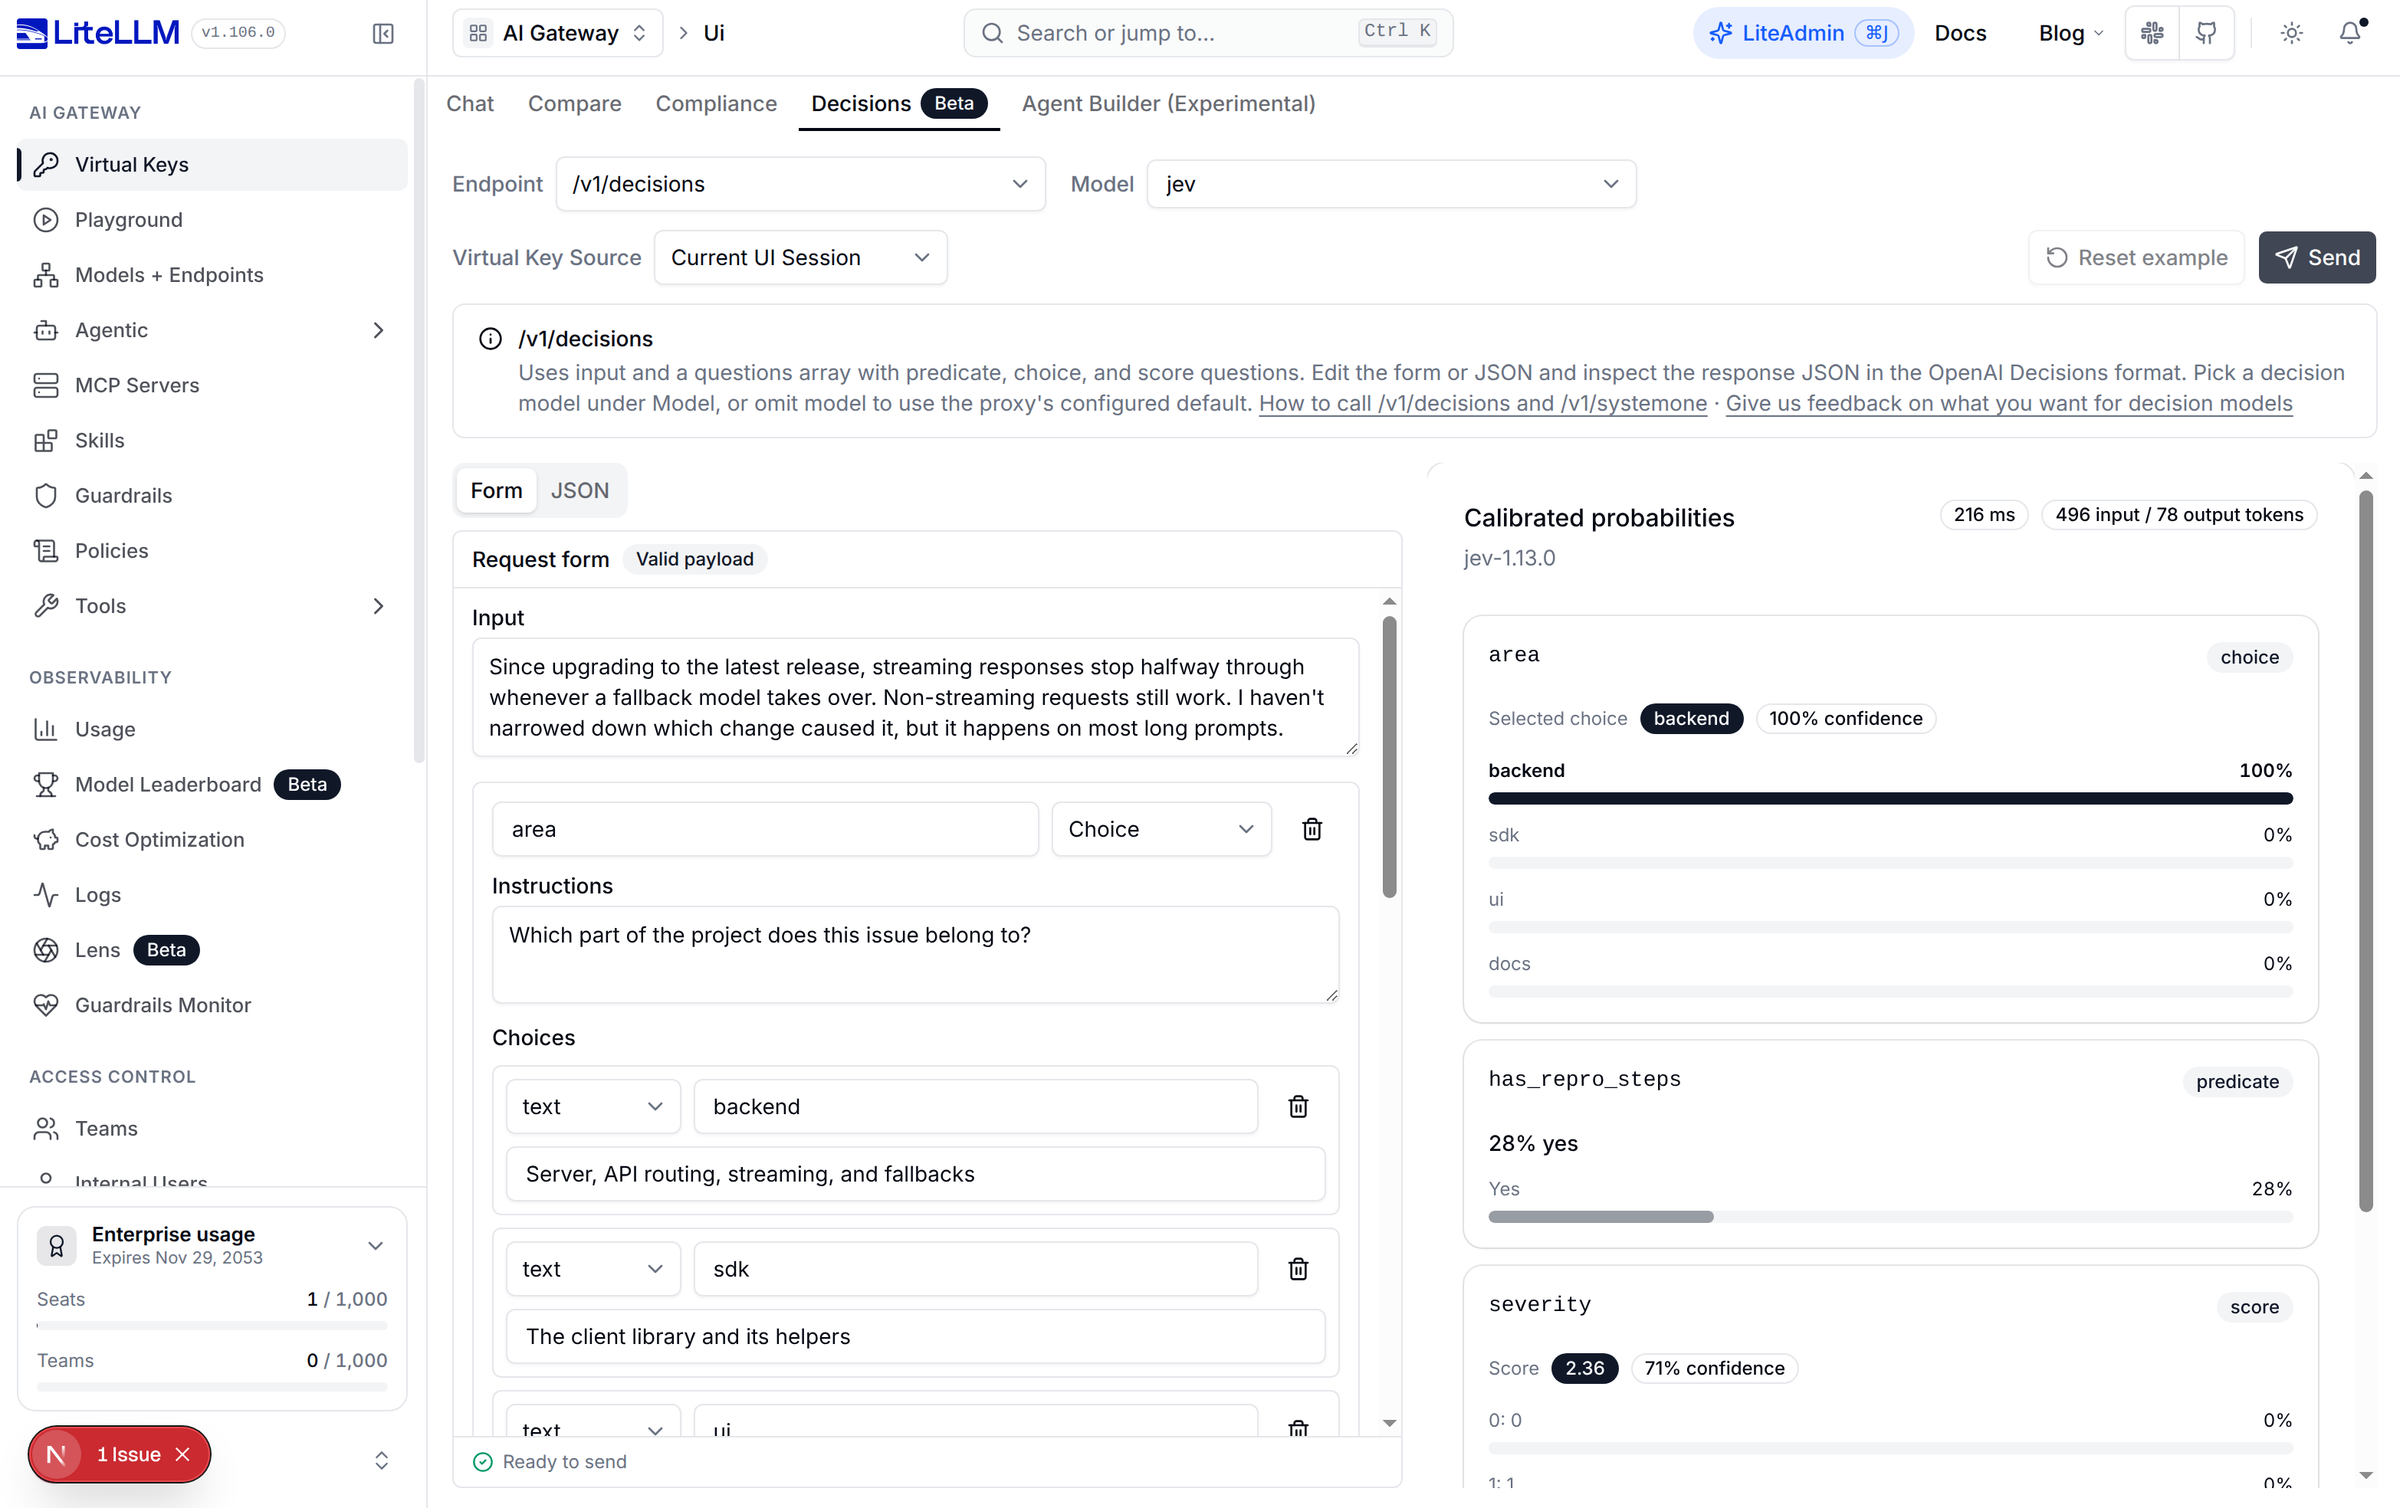
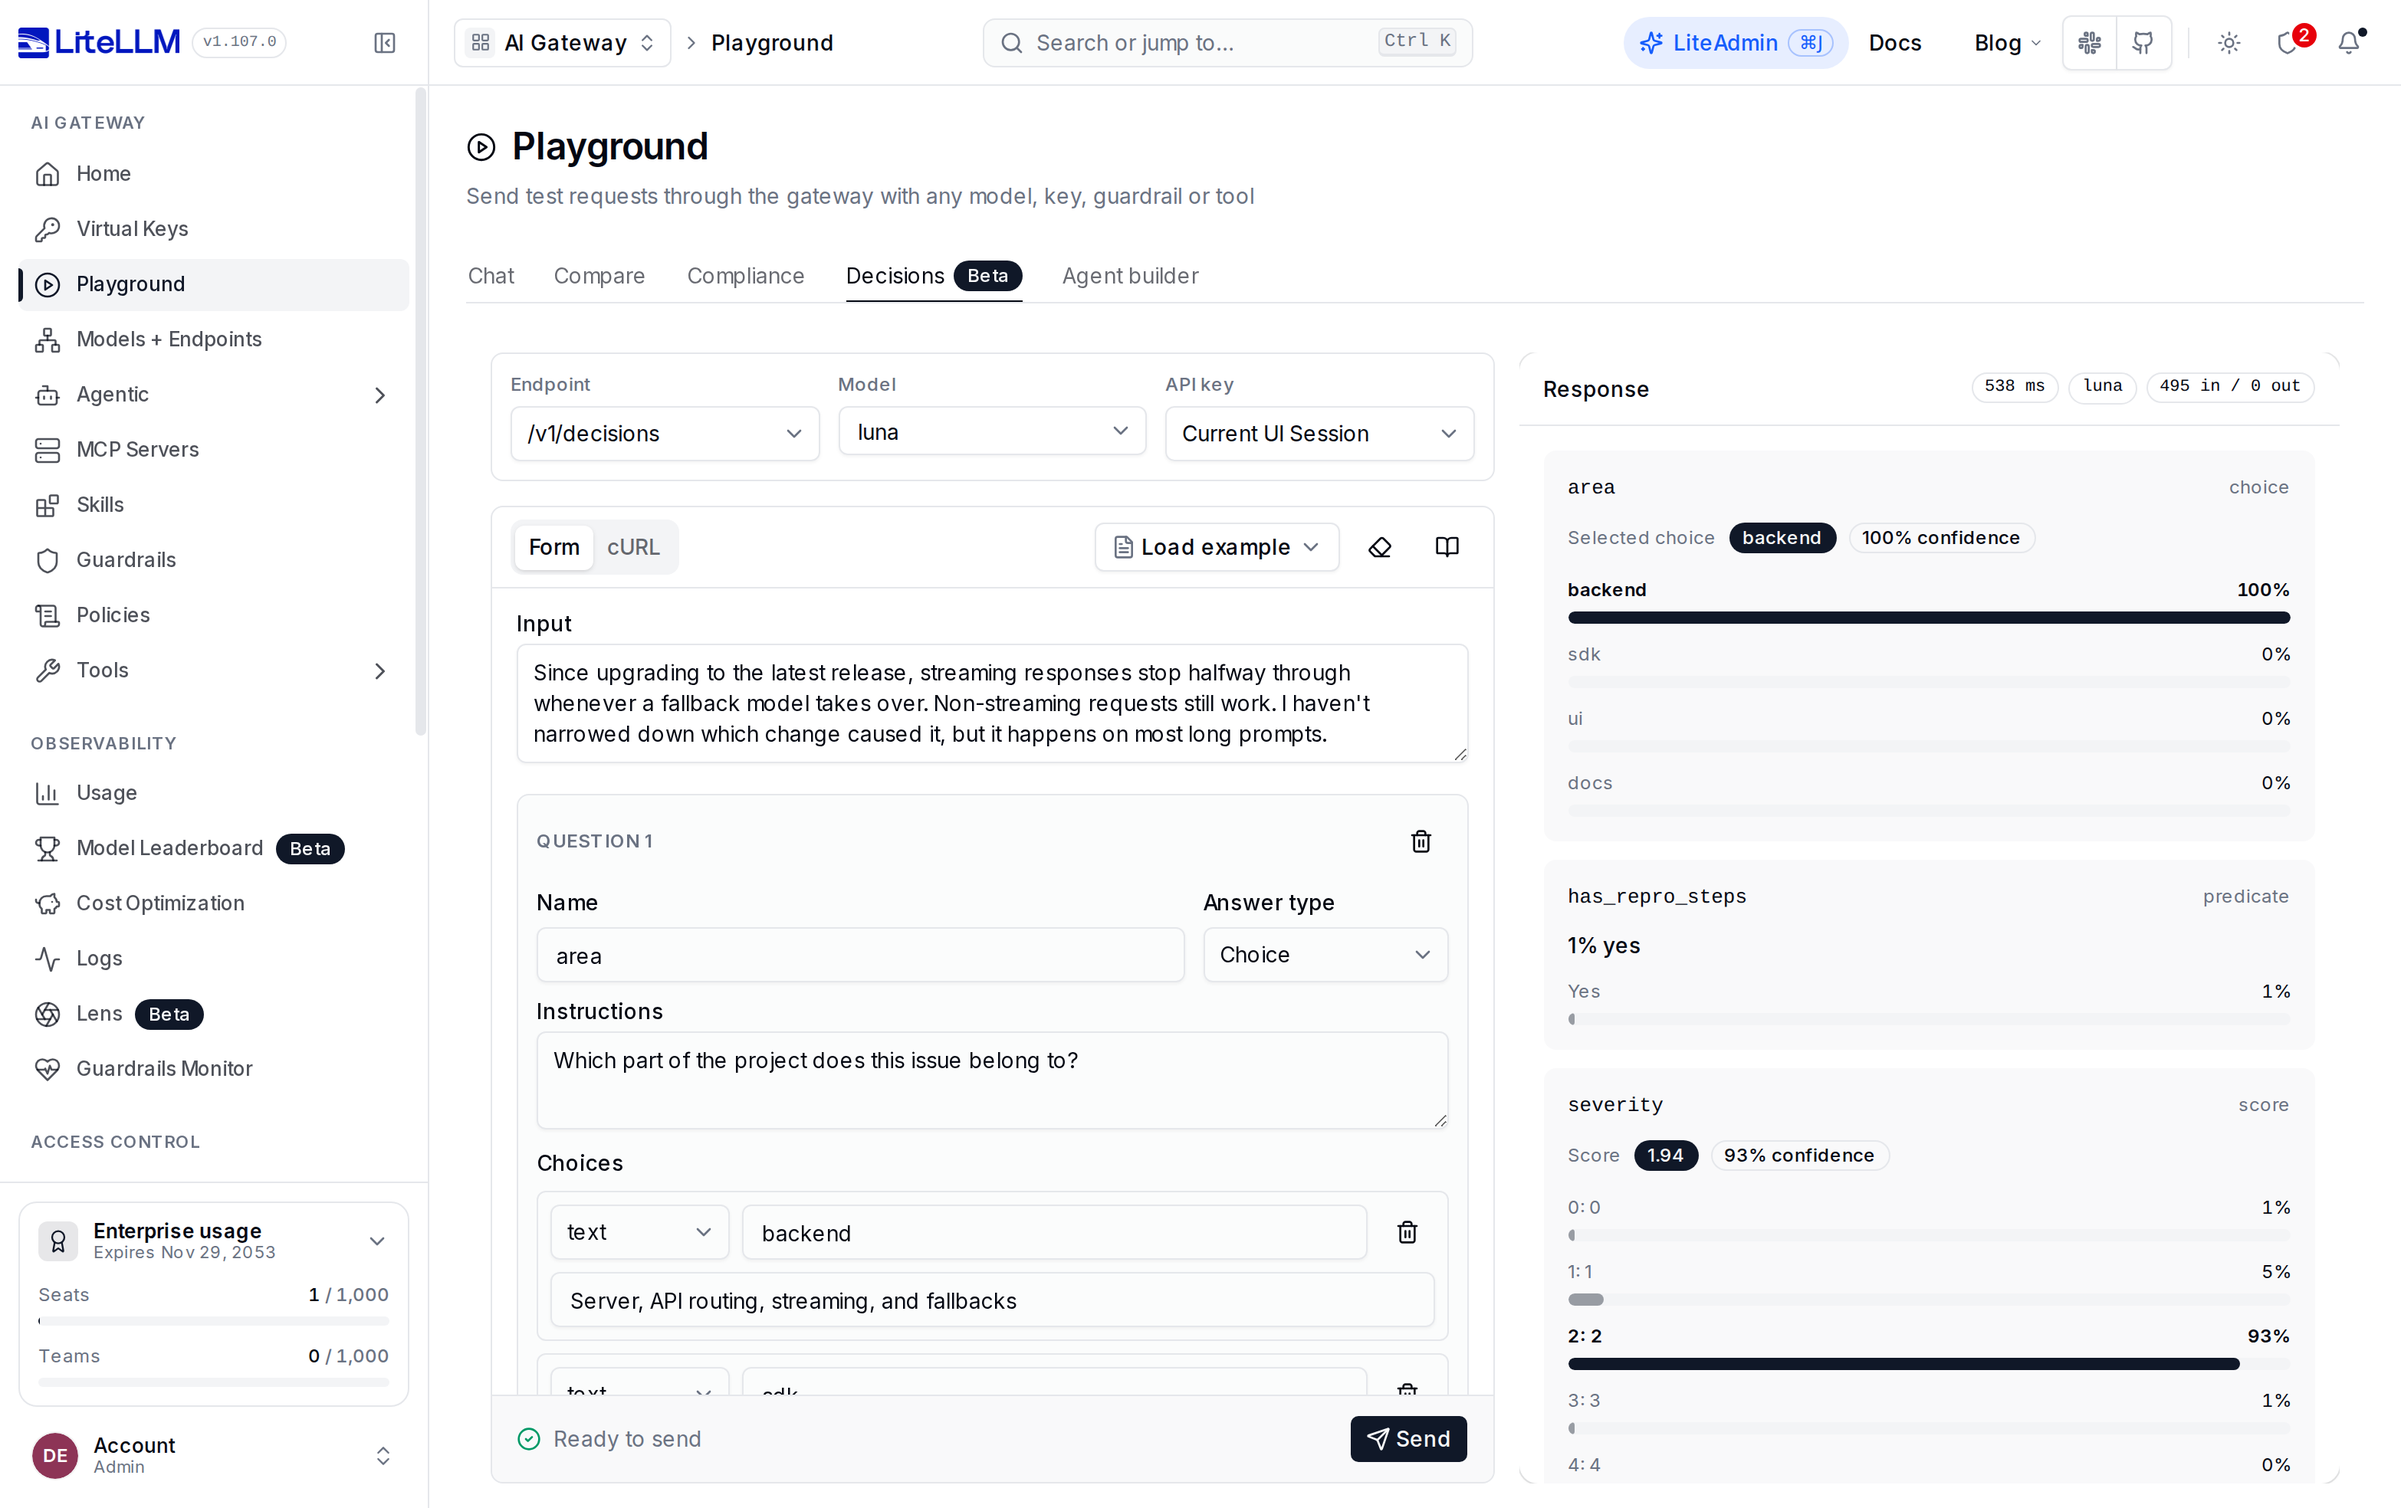
docs(decisions): describe the current Decisions playground and refresh its screenshots

diff --git a/docs/pass_through/typesafe.md b/docs/pass_through/typesafe.md
@@ -85,21 +85,21 @@ Any path under `/typesafe/` is forwarded, so `GET /typesafe/v1/models` lists the
 
 ## Try it in the Admin UI
 
-The Playground **Decisions** tab (Beta) sends Jev requests without curl. It calls the proxy's `/v1/systemone` route rather than this pass-through, so add a `typesafe/` model to your `model_list` first, for example `jev` from the [proxy setup](../decisions.md#proxy-setup) on the Decisions page, and set `TYPESAFE_API_KEY`; without the key the upstream error shows inline. Open `LITELLM_PROXY_BASE_URL/ui/?page=llm-playground&tab=system-one`, or go to **Playground** and pick **Decisions**. In releases before the rename the tab is labelled **System One**.
+The Playground **Decisions** tab (Beta) sends Jev requests without curl. It calls the proxy's `/v1/systemone` route rather than this pass-through, so add a `typesafe/` model to your `model_list` first, for example `jev` from the [proxy setup](../decisions.md#proxy-setup) on the Decisions page, and set `TYPESAFE_API_KEY`. Open `LITELLM_PROXY_BASE_URL/ui/?page=llm-playground&tab=system-one`, or go to **Playground** and pick **Decisions**.
 
-Pick `/v1/systemone` under **Endpoint** and your Jev model under **Model**. The left side holds a request preloaded with an issue triage example that asks one question of each type: `area` (choice), `has_repro_steps` (noul) and `severity` (score), and **Reset example** restores it.
+Pick `/v1/systemone` under **Endpoint** and your Jev model under **Model**. **Load example** fills in a request, such as **Triage a bug report**, which asks one question of each type: `area` (choice), `has_repro_steps` (yes / no) and `severity` (score). The eraser button clears the form.
 
 <Image img={require('../../img/decisions_playground_systemone.png')} alt="Decisions playground with /v1/systemone and the jev model picked, showing the form and the answers" />
 
-The editor opens on a **Form** tab, so you can build a request without writing JSON. Type the text the model should read into **Input**, then edit each question card: its name, its type (**Choice**, **Yes / no** or **Score**), its **Instructions**, and its criteria. A choice takes options with descriptions, a yes / no question takes **Yes means** and **No means**, and a score takes levels numbered from 0. **Add question**, **Add option** and **Add level** add rows, and the trash buttons remove them.
+The editor opens on the **Form** tab, so you can build a request without writing JSON. Type the text the model should read into **Input**, then fill in each question card: its **Name**, its **Answer type** (**Choice**, **Yes / no** or **Score**), its **Instructions** and its criteria. A choice takes **Options** with descriptions, a yes / no question takes **Yes means** and **No means**, and a score takes **Levels, lowest first**, numbered from 0. **Add question**, **Add option** and **Add level** add rows, and the trash buttons remove them.
 
-The **JSON** tab edits the same request as raw JSON, so a change in either tab shows up in the other, and fields the form has no input for, such as `metadata`, are kept. A request the form cannot show, such as JSON with a syntax error, gets an **Edit in JSON** button instead. **Format JSON** on that tab reindents the request. Releases without the **Form** tab show only the JSON editor.
+The **cURL** tab shows the request as a read-only curl command for the proxy's `/v1/systemone`, and it follows your edits. Once the form has no issues, **Copy cURL** copies it, and you replace `$LITELLM_API_KEY` with a virtual key. To send a field the form has no input for, such as `metadata`, copy the curl and add the field to its `-d` body.
 
-The request is checked as you type. `state` and a non-empty `questions` object are required and every question needs `instructions`; errors are listed by JSON path and disable **Send**. Fields outside the form are forwarded unchanged.
+The form checks the request as you type. Problems are listed above **Send**, such as `Add the text the model should decide about.` for an empty **Input** and `Give every question a name.` for an unnamed question, and **Send** stays disabled until they are fixed. TypeSafe checks the rest when you send, so a yes / no question with no instructions and no **Yes means** or **No means** comes back as a 400.
 
-**Virtual Key Source** picks the key: **Current UI Session** uses your dashboard login, and **Virtual Key** lets you paste one so the call is attributed and budgeted against that key. **Send** posts to `/v1/systemone` through your `model_list`, so spend and logs land under the proxy model name like any other request. The `/typesafe/v1/systemone` pass-through from the curl above is not selectable in the Playground.
+**API key** picks the key. **Current UI Session** uses your dashboard login, and **Virtual Key** lets you paste one so the call is attributed and budgeted against that key. **Send** posts to `/v1/systemone` through your `model_list`, so spend and logs land under the proxy model name like any other request. The `/typesafe/v1/systemone` pass-through from the curl above is not selectable in the Playground.
 
-The right side shows a **Question breakdown** of the state and each question's criteria, and once the call returns, the answers above it: the picked choice with confidence and a probability bar per option, the noul probability, and the score with its legend and per-level probabilities. The model TypeSafe reports, input and output tokens, latency and the raw JSON response are shown under the answers. Auth and upstream errors, such as a 401 for an unknown key, show inline.
+Once the call returns, the **Response** card shows one card per question: the picked choice with its confidence and a bar per option, the yes / no probability, and the score with its confidence and a bar per level. Its header shows the latency, the model name from the response and the input and output tokens, and **Raw response** opens the JSON body. Auth and upstream errors, such as a 401 for an unknown key, replace the answers with **Decisions request failed** and the error.
 
 ## Cost Tracking
 

diff --git a/docs/decisions.md b/docs/decisions.md
@@ -511,13 +511,27 @@ Go to **Models + Endpoints**, open the **Add Model** tab and pick the provider, 
 
 ### Decisions playground
 
-The Playground **Decisions** tab sends requests to both routes. Open it at `LITELLM_PROXY_BASE_URL/ui/?page=llm-playground&tab=system-one`, or go to **Playground** and pick **Decisions**. The **Endpoint** selector picks `/v1/decisions` (OpenAI Decisions format) or `/v1/systemone` (System One format), and the **Model** selector lists the decision models in your `model_list`, such as `jev` or `luna` from the config above; a proxy with no decision models shows an **Add a decision model** link instead. Both endpoints have a **Form** tab for building the request without JSON and a **JSON** tab for the raw request. Image input on `/v1/decisions` is edited in JSON, since the form keeps `messages` and image parts as they are. **Virtual Key Source** picks the key: **Current UI Session** uses your dashboard login and **Virtual Key** attributes the call to a key you paste. Once the call returns, each question shows its answer and probabilities, with the model name from the response, token usage, latency and the raw JSON response under them.
+The Playground **Decisions** tab (Beta) sends requests to both routes. Open it at `LITELLM_PROXY_BASE_URL/ui/?page=llm-playground&tab=system-one`, or go to **Playground** and pick **Decisions**. The **Endpoint** selector picks `/v1/decisions` (OpenAI Decisions format) or `/v1/systemone` (System One format). The **Model** selector lists the decision models in your `model_list`, such as `jev` from the config above, and a proxy with no decision models shows an **Add a decision model** link instead. An OpenAI decision model such as `luna` is listed once its `model_info` sets `mode: evaluation`, which also makes `/health` check it over `/v1/decisions`.
 
-<Image img={require('../img/decisions_playground_systemone.png')} alt="Decisions playground with /v1/systemone picked, the jev model, the Form tab and the answers for the issue triage example" />
+```yaml showLineNumbers keep-model-ids
+model_list:
+  - model_name: luna
+    litellm_params:
+      model: openai/gpt-6-luna
+      api_key: os.environ/OPENAI_API_KEY
+    model_info:
+      mode: evaluation
+```
 
-<Image img={require('../img/decisions_playground_openai.png')} alt="Decisions playground with /v1/decisions picked, showing the OpenAI Decisions form with predicate, choice and score questions" />
+**API key** picks the key. **Current UI Session** uses your dashboard login, and **Virtual Key** attributes the call to a key you paste. **Load example** fills in one of four requests: **Triage a bug report**, **Route a support ticket**, **Moderate a forum comment** or **Score a sales lead**. The form starts empty, and the eraser button clears it. Type the text the model should read into **Input**, then give each question a **Name**, an **Answer type** and **Instructions**. The answer types are **Choice**, **Yes / no** and **Score** on `/v1/systemone`, and **Predicate**, **Choice** and **Score** on `/v1/decisions`, which also takes an optional **Safety identifier**. **Add question** adds a card, and the trash buttons remove questions, options and levels. The **cURL** tab shows the same request as a curl command that follows your edits, and **Copy cURL** copies it once the form has no issues. The form only takes text, so send image input on `/v1/decisions` with curl or the SDK.
 
-The tab is not in `v1.104.2` or `v1.105.0`. Releases before this UI change label it **System One** and only send the System One format, so use curl or the SDK for `/v1/decisions` there. The [TypeSafe page](./pass_through/typesafe.md#try-it-in-the-admin-ui) walks through the System One form, validation and answer view.
+Problems the form can catch, such as an empty **Input**, are listed above **Send**, which stays disabled until they are fixed. Others come back from the provider when you send, such as a `/v1/systemone` question with no instructions. Once the call returns, each question shows its answer and probabilities, and the **Response** header shows the latency, the model name from the response and the token usage. **Raw response** opens the JSON body. An error, such as a 401 for a bad key, shows **Decisions request failed** and the error message instead of the answers.
+
+<Image img={require('../img/decisions_playground_systemone.png')} alt="Decisions playground with /v1/systemone and the jev model picked, the bug report triage example in the Form tab and its answers" />
+
+<Image img={require('../img/decisions_playground_openai.png')} alt="Decisions playground with /v1/decisions and the luna model picked, the bug report triage example with choice, predicate and score questions and its answers" />
+
+The tab is in `v1.106.0` and later, and not in `v1.104.2` or `v1.105.0`. `v1.106.0` picks examples from a dropdown instead of **Load example**. The [TypeSafe page](./pass_through/typesafe.md#try-it-in-the-admin-ui) walks through the System One form, validation and answer view.
 
 ## Use a decision model as a guardrail
 
